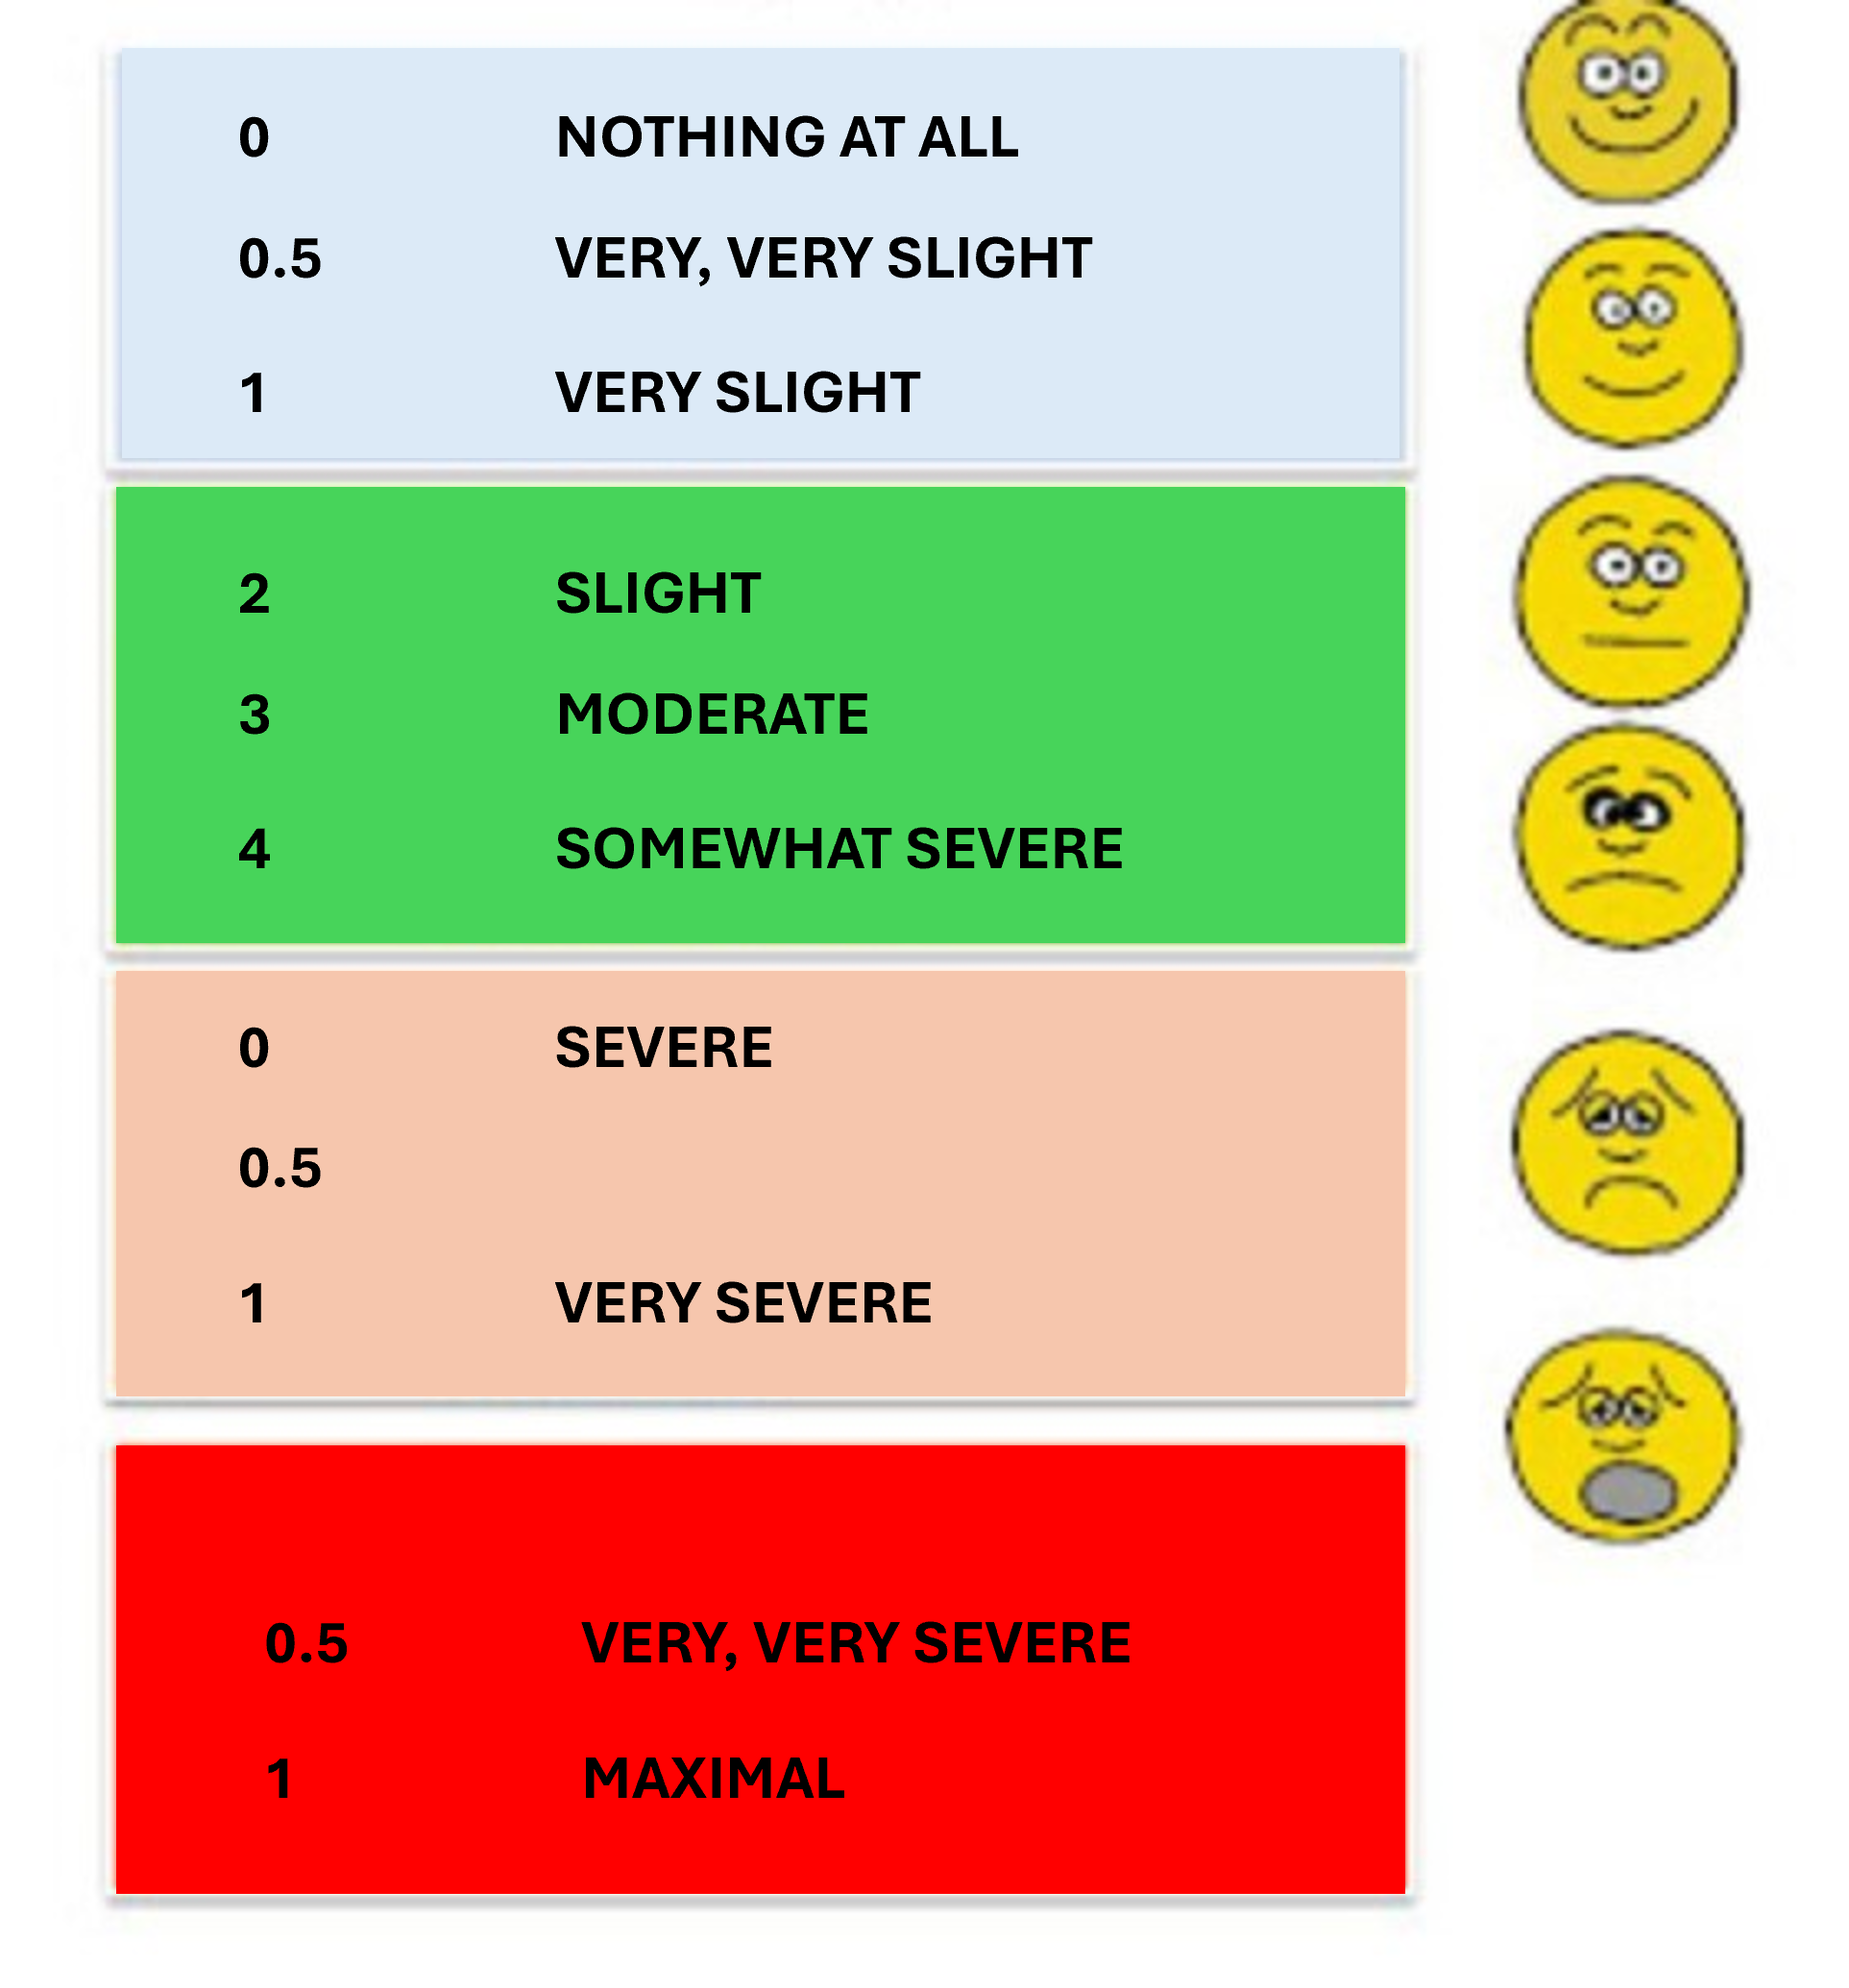
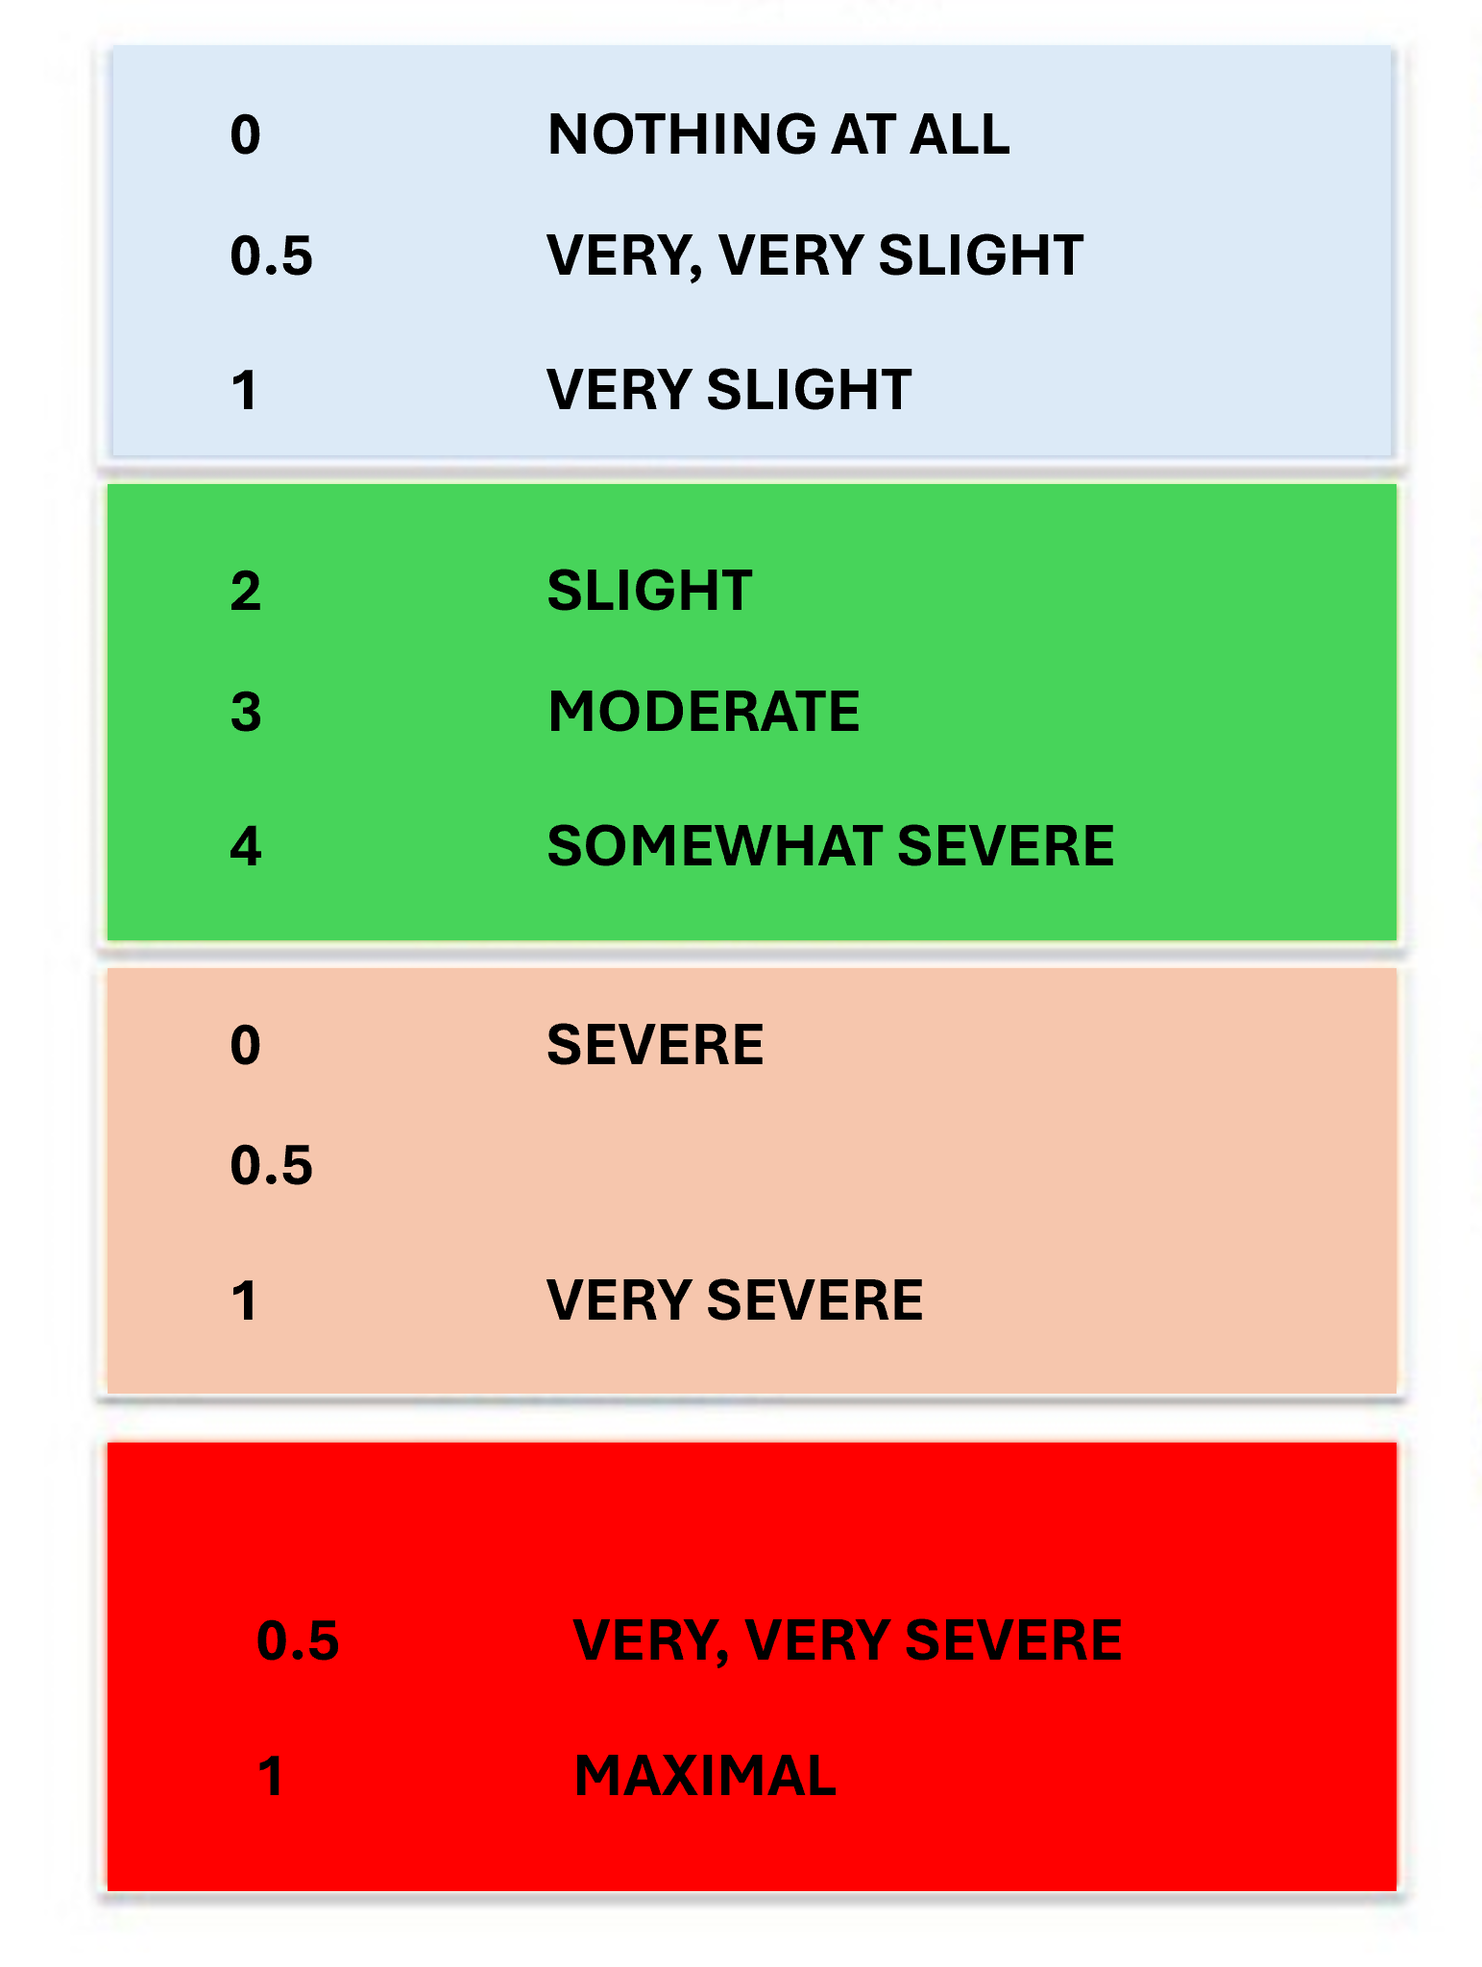
feat: add isLoaded state to manage component loading and update Model and AnalysisPanel to conditionally render based on loading state

diff --git a/src/pages/index.js b/src/pages/index.js
@@ -27,6 +27,7 @@ import ControlPanel from "../components/ControlPanel"; // Add this import
 export default function Home() {
   const router = useRouter();
   const [openAnalysis, setAnalysisOpen] = React.useState(false);
+  const [isLoaded, setIsLoaded] = React.useState(false);
   const [isNewSession, setNewSession] = React.useState("");
   const theme = useTheme();
   const fullScreen = useMediaQuery(theme.breakpoints.down("md"));
@@ -110,6 +111,7 @@ export default function Home() {
       .then((response) => {
         const data = response.data;
         setData(data);
+        setIsLoaded(true)
         window.scrollTo(100, 100)
 
         const reportId = data?.data?.report?.reportId;
@@ -378,13 +380,14 @@ export default function Home() {
                 />}
               </div>
 
-              {data?.data?.digital_twin && (
+              {/* {data?.data?.digital_twin && ( */}
                 <ModelArray
                   inferredAnalysis={reportData.inferredAnalysis}
-                  twins={data.data.digital_twin}
+                  twins={data?.data?.digital_twin}
                   controls={controls}
+                  isLoaded={isLoaded}
                 />
-              )}
+              {/* )} */}
             </div>
           </div>
         </main>
@@ -454,7 +457,7 @@ export default function Home() {
   );
 }
 
-function ModelArray({ twins, inferredAnalysis = [], controls }) {
+function ModelArray({ twins = [{}, {}, {}], inferredAnalysis = [], controls, isLoaded }) {
   return (
     <div
       style={{
@@ -467,9 +470,9 @@ function ModelArray({ twins, inferredAnalysis = [], controls }) {
     >
       {twins.slice(0, 3).map((twin, index) => {
         const discomfortData = twin.discomfort?.raw_scores;
-        const exertionData = twin.exertion?.raw_scores;
+        const exertionData = isLoaded? twin.exertion?.raw_scores : null;
         const cognitiveWorkload = twin.cognitive_load?.overall_score || 0;
-        const cognitiveLevel = (cognitiveWorkload / 120) * 100;
+        const cognitiveLevel = isLoaded ? (cognitiveWorkload / 120) * 100 : null;
         const { metrics } = inferredAnalysis[index] || {};
         const { fall_risk_pressure } = metrics || {};
 
@@ -492,6 +495,7 @@ function ModelArray({ twins, inferredAnalysis = [], controls }) {
                 ...(controls.discomfort ? discomfortData : {}), 
                 exertion: controls.exertion ? exertionData : null 
               }}
+              isLoaded={isLoaded}
               cognitive={controls.cognitiveLoad}
               cognitiveLevel={controls.cognitiveLoad ? cognitiveLevel : null}
               stability={controls.stability ? fall_risk_pressure : null}

diff --git a/src/components/ModelViewer/Model.jsx b/src/components/ModelViewer/Model.jsx
@@ -6,7 +6,7 @@ import { useLoader } from "@react-three/fiber";
 import * as THREE from "three";
 
 function Model(props) {
-  const { data, cognitive, cognitiveLevel, stability = 0 } = props; // Default stability to 1 (no tilt)
+  const { data, cognitive, cognitiveLevel, stability = 0, isLoaded } = props; // Default stability to 1 (no tilt)
   const [hoveredPart, setHoveredPart] = useState(null);
   const [modelNodes, setModelNodes] = useState({});
   const [allMeshes, setAllMeshes] = useState([]);
@@ -298,7 +298,7 @@ function Model(props) {
       />
       
       {/* Wireframe Toggle Button */}
-      <Html position={[-1.5, 1.5, 1]} style={{ pointerEvents: "all" }}>
+      {isLoaded && <Html position={[-1.5, 1.5, 1]} style={{ pointerEvents: "all" }}>
         <button
           onClick={toggleWireframe}
           style={{
@@ -320,7 +320,7 @@ function Model(props) {
         >
           {wireframeMode ? "🔍 Wireframe ON" : "👤 Normal View"}
         </button>
-      </Html>
+      </Html>}
 
       {/* Stability Indicator */}
       {/* <Html position={[1.5, -1.5, 1]} style={{ pointerEvents: "none" }}>
@@ -665,7 +665,7 @@ function AnalysisPanel({ data, cognitive, cognitiveLevel, stability, seeLess, on
 }
 
 const ModelViewer = (props) => {
-  const { data, cognitive, cognitiveLevel, stability } = props;
+  const { data, cognitive, cognitiveLevel, stability, isLoaded } = props;
   const [state, setState] = useState(true);
 
   return (
@@ -685,14 +685,14 @@ const ModelViewer = (props) => {
           </Suspense>
         </Canvas>
 
-        <AnalysisPanel
+        {isLoaded &&<AnalysisPanel
           data={data}
           cognitive={cognitive}
           cognitiveLevel={cognitiveLevel}
           stability={stability}
           onClick={() => setState((prev) => !prev)}
           seeLess={state}
-        />
+        />}
 
         <div
           style={{

diff --git a/src/components/SubjectiveEvaluation/StepForms/ThirdStep/ThirdStep.js b/src/components/SubjectiveEvaluation/StepForms/ThirdStep/ThirdStep.js
@@ -2,7 +2,7 @@ import React from 'react';
 import { Box, Typography } from '@mui/material';
 import styles from '../FirstStep/FirstStep.module.css';
 import { Field, ErrorMessage } from 'formik';
-import RatingImage from '../../../../images/exertionRating.png'
+import RatingImage from '../../../../images/exertionRating.jpeg'
 import Image from 'next/image'
 
 export default function ThirdStepForm(props) {
@@ -28,6 +28,7 @@ export default function ThirdStepForm(props) {
               width={'auto'}
               height={'auto'}
               alt='rating scale'
+              style={{ maxHeight: '400px', objectFit: 'contain' }}
             />
           </Box>
           <fieldset
